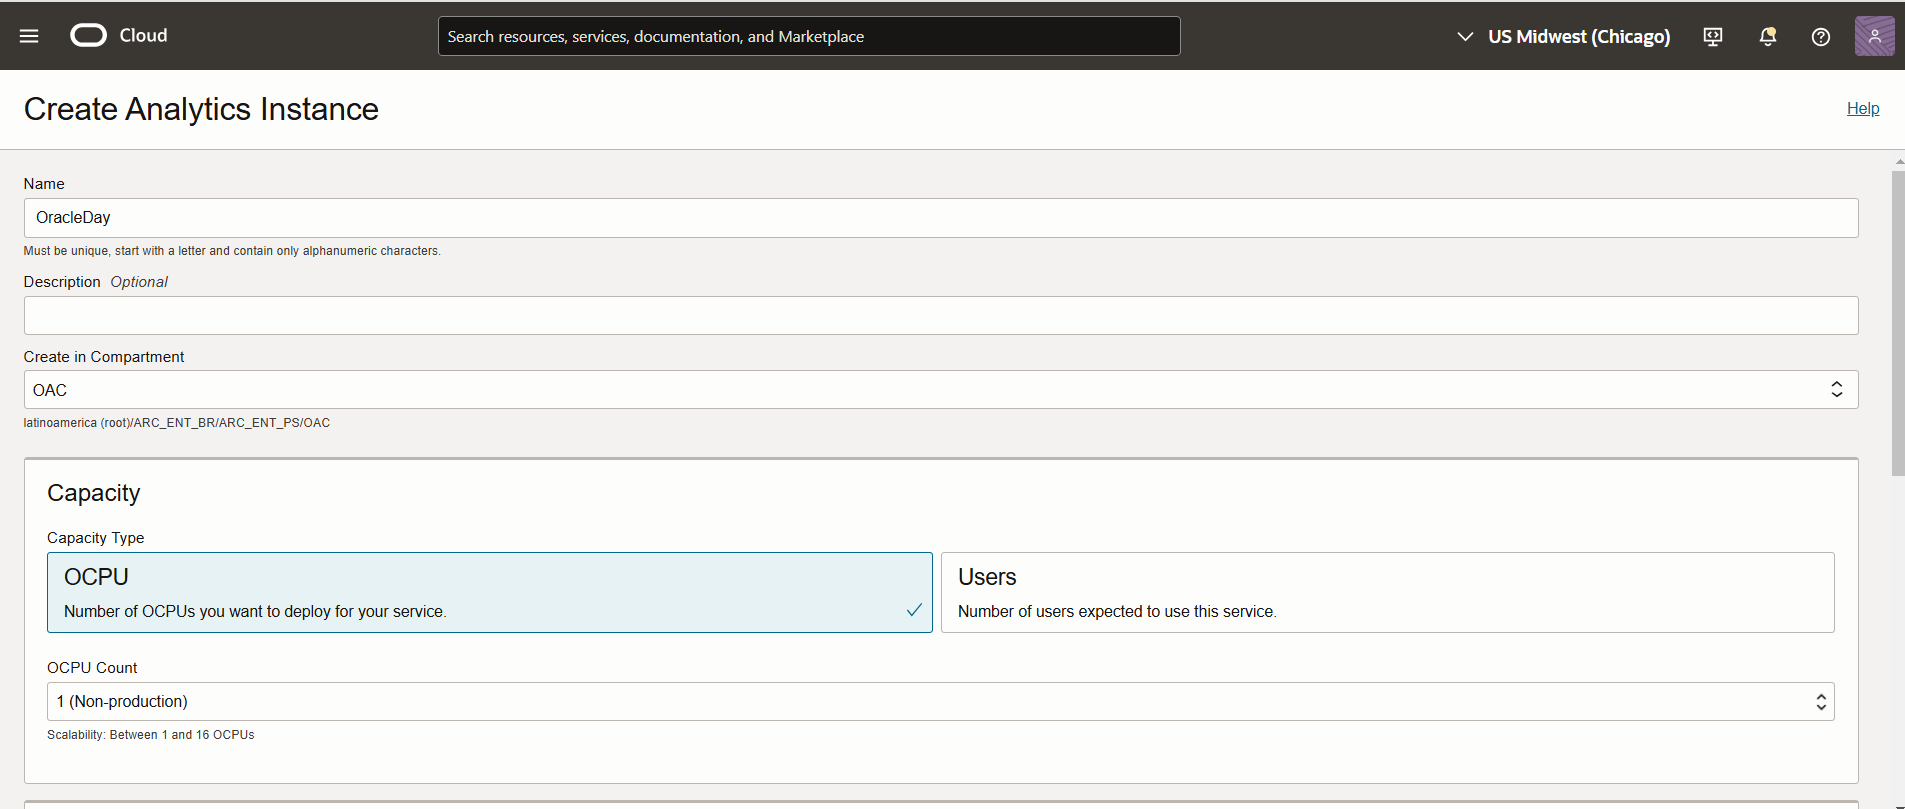
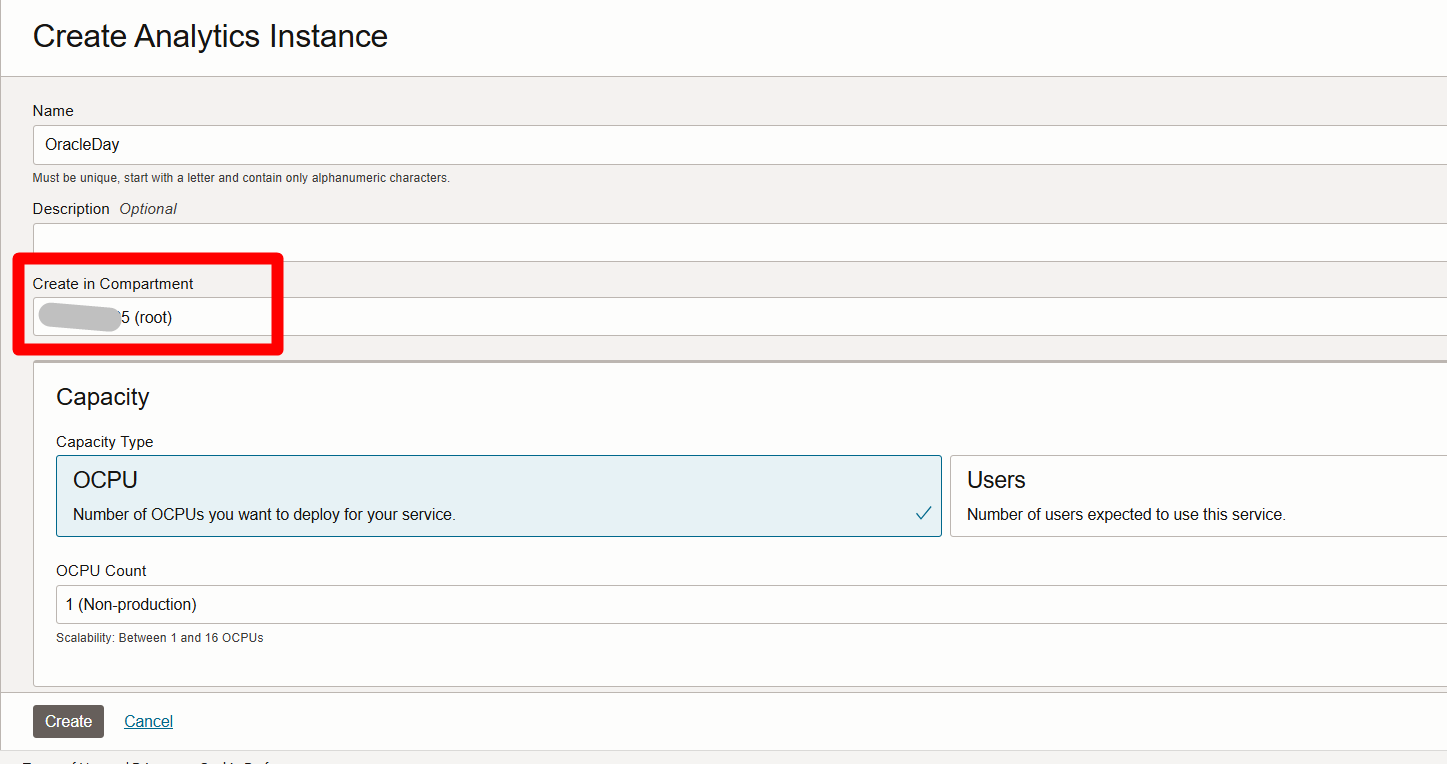
AjustesConfig

diff --git a/0-create-instance/0-create-instance.md b/0-create-instance/0-create-instance.md
@@ -30,7 +30,7 @@ O que você aprenderá:
 
 - Criar um banco de dados autônomo (Autonomous Database) no Oracle Cloud Infrastructure (OCI);
 - Provisionar Oracle Analytics Cloud, plataforma de autoatendimento de Análise de Negócio;
-- Fazer a configuração do AI Agent.
+- Fazer a configuração do OCI Data Science.
 
 <br>
 
@@ -52,45 +52,56 @@ O que você aprenderá:
 
 1. Clique no menu de hambúrger do canto superior esquerdo da tela, na sequência navegue até a página de gestão de autonomous databases.
 
-![Autonomous Acess](images/autonomous-acess.png)
+![Autonomous Acess](images/Homepage-ADB.png)
 
-2. Na página de gestão de Autonomous Databases, clique em create autonomous database. Selecione **ATP ou ADW**
-  
+2. Na página de gestão de Autonomous Databases, clique em **Create Autonomous Database**.
+Escolha o **Compartment**: <<'NomeTenancy'>>**root**
+![Create Autonomous](images/CreateADB.png)
+![Create Autonomous](images/CompartmentADB.png)
+
+3. Selecione **ADW - Data Warehouse**
 ![Create Autonomous](images/create-autonomous.png)
 
-3. Escolha a versão 23ai para o banco de dados:
+4. Escolha a versão 23ai para o banco de dados:
 
 ![Create 23AI](images/create-23ai.png)
 
-4. Coloque a senha **WORKSHOPsec2019##** , escolha **secure access from everywhere** e clique em **Create Autonomous Database**:
+5. Coloque a senha **WORKSHOPsec2019##** , escolha **secure access from everywhere** e clique em **Create Autonomous Database**:
 <br><br>
 
 ![Secure Acess](images/secure-acess.png)
 
-5. Aguarde até a conclusão da criação: 
+6. Vá para o próximo laboratório.
+<br>Status do Autonomous Database:
 - Ícone amarelo = criando; 
 - Ícone verde = pronto para uso;
+
 ![Yellow ADW](images/yellow-adw.png)
 ![Green ADW](images/green-adw.png)
 
+
 ## 3⃣ Criação do Oracle Analytics Cloud
 
-Clique no menu de hambúrger do canto superior esquerdo da tela, na sequência navegue até a página de gestão do Oracle Analytics Cloud.
+1. Clique no menu de hambúrger do canto superior esquerdo da tela, na sequência navegue até a página de gestão do Oracle Analytics Cloud.
 
 ![Analytics Cloud Acess](images/AcessoAnalytics.png)
 
-Na página de gestão do Oracle Analytics Cloud, clique em **Create Instance**.
+2. Na página de gestão do Oracle Analytics Cloud, clique em **Create Instance**.
   
 ![Create Analytics Cloud](images/CreateOAC.png)
 
-Dê um nome a instância do Analytics Cloud e mantenha as outras configurações como na imagem a seguir. Ao finalizar clique em **Create**:
+3. Dê um nome a instância do Analytics Cloud.
+<br>Escolha o **Compartment**: <<'NomeTenancy'>>**root** e mantenha as outras configurações padrão. Ao finalizar clique em **Create**.
 
 ![Configurando Analytics Cloud](images/CreateOAC1.png)
 ![Configurando Analytics Cloud](images/CreateOAC2.png)
 
-Aguarde até a conclusão da criação: 
+4. Vá para o próximo laboratório.
+<br>Status do Oracle Analytics Cloud:
 - Ícone amarelo = criando; 
 - Ícone verde = pronto para uso;
+
+![Yellow OAC](images/CreateOAC4.png)
 ![Green OAC](images/CreateOAC3.png)
 
 
@@ -100,11 +111,12 @@ Antes de criar o ambiente de código, vamos configurar as permissões necessári
 
 ![Copy Compartment](images/copy-compartment.png)
 
-Clique no menu de hambúrger do canto superior esquerdo da tela, selecione **Identity & Security ⮕ Policies**
+1. Clique no menu de hambúrger do canto superior esquerdo da tela, selecione **Identity & Security ⮕ Policies**
 
 ![Acess Policies](images/acess-policies.png)
 
-Clique em **Create Policy**. Em seguida, selecione **Show Manual Editor** e aidicione a frase abaixo. Em seguida, clique em **Create**.
+2.Clique em **Create Policy**. Em seguida, dê um nome e uma descrição.
+<br> Selecione **Show Manual Editor** e adicione a frase abaixo. Em seguida, clique em **Create**.
 
     <copy>  
     allow any-user to manage generative-ai-family in tenancy
@@ -115,19 +127,19 @@ Clique em **Create Policy**. Em seguida, selecione **Show Manual Editor** e aidi
 
 ![Policy Data Science](images/policy-data-science.png)
 
-Clique no menu de hambúrger do canto superior esquerdo da tela, selecione **Analytics & AI ⮕ Data Science**
+3. Clique no menu de hambúrger do canto superior esquerdo da tela, selecione **Analytics & AI ⮕ Data Science**
 
 ![Create Project](images/create-project.png)
 
-Clique em **Create Project**, defina um nome para o projeto e em seguida, clique em **Create**, na região inferior da tela.
+4. Clique em **Create Project**, defina um nome para o projeto e em seguida, clique em **Create**, na região inferior da tela.
 
 ![Name Project](images/name-project.png)
 
-Selecione o nome do projeto e em seguida, clique em **Create Notebook Session**
+5. Selecione o nome do projeto e em seguida, clique em **Create Notebook Session**
 
 ![Notebook Session](images/notebook-session.png)
 
-Considere as seguintes configurações e em seguida, clique em **Create**:
+6. Considere as seguintes configurações e em seguida, clique em **Create**:
 
 - **Name:** dataprev-fast-track
 - **Shape:** VM.Standard.E4.Flex Virtual machine, 1 core OCPU, 16 GB memory. Caso não disponível, selecionar VM.Standard.E3.Flex
@@ -135,7 +147,41 @@ Considere as seguintes configurações e em seguida, clique em **Create**:
 
 ![Config Notebook Session](images/config-notebook-session.png)
 
-Após a criação do OCI Data Science, você está pronto para prosseguir para o próximo laboratório.
+Você está pronto para prosseguir para o próximo laboratório.
+
+
+## 5⃣ [Extra] Situação das Intâncias
+
+1. Clique no símbulo da Oracle Cloud, canto superior esquerdo, na homepage os últimos serviços acessados e o status deles. Como a imagem a seguir.
+![Homepage Status](images/HomepageStatus.png)
+
+### **[OPCIONAL]**
+2. Para ver cada uma das instâncias pode clicar no nome da instância ou navegar pelo OCI acessando os serviços, passos para acessar essas instâncias a seguir.
+
+3. Clique no menu de hambúrger do canto superior esquerdo da tela, na sequência selecione **Oracle Databse ⮕ Autonomous Database**. Selecione seu Autonomous Database.
+
+![Autonomous Acess](images/Homepage-ADB.png)
+![Green ADW](images/green-adw.png)
+
+4. Clique no menu de hambúrger do canto superior esquerdo da tela, na sequência selecione **Analytics & AI ⮕ Oracle Analytics Cloud**. Selecione seu Oracle Analytics.
+
+![Analytics Cloud Acess](images/AcessoAnalytics.png)
+![Green OAC](images/CreateOAC3.png)
+
+5. Clique no menu de hambúrger do canto superior esquerdo da tela, na sequência selecione **Analytics & AI ⮕ Data Science**. Selecione seu projeto.
+
+![Create Project](images/create-project.png)
+![Notebook Session](images/notebook-session.png)
+
+6. Selecione seu Notebook. 
+![Notebook Session](images/Notebook.png)
+
+
+<br>
+
+🎉🎉 Parabéns, você terminou os Laboratórios de **Criação dos Serviços** 🎉🎉
+
+<br>
 
 ## 👥 Agradecimentos
 

diff --git a/5-analytics-cloud/5-analytics-cloud.md b/5-analytics-cloud/5-analytics-cloud.md
@@ -36,7 +36,7 @@ Na página de gestão do Oracle Analytics Cloud, clique em **Create Instance**.
   
 ![Create Analytics Cloud](images/CreateOAC.png)
 
-Dê um nome a instância do Analytics Cloud e mantenha as outras configurações como na imagem a seguir. Ao finalizar clique em **Create**:
+Dê um nome a instância do Analytics Cloud, e mantenha as outras configurações com o padrão. Ao finalizar clique em **Create**:
 
 ![Configurando Analytics Cloud](images/CreateOAC1.png)
 ![Configurando Analytics Cloud](images/CreateOAC2.png)
